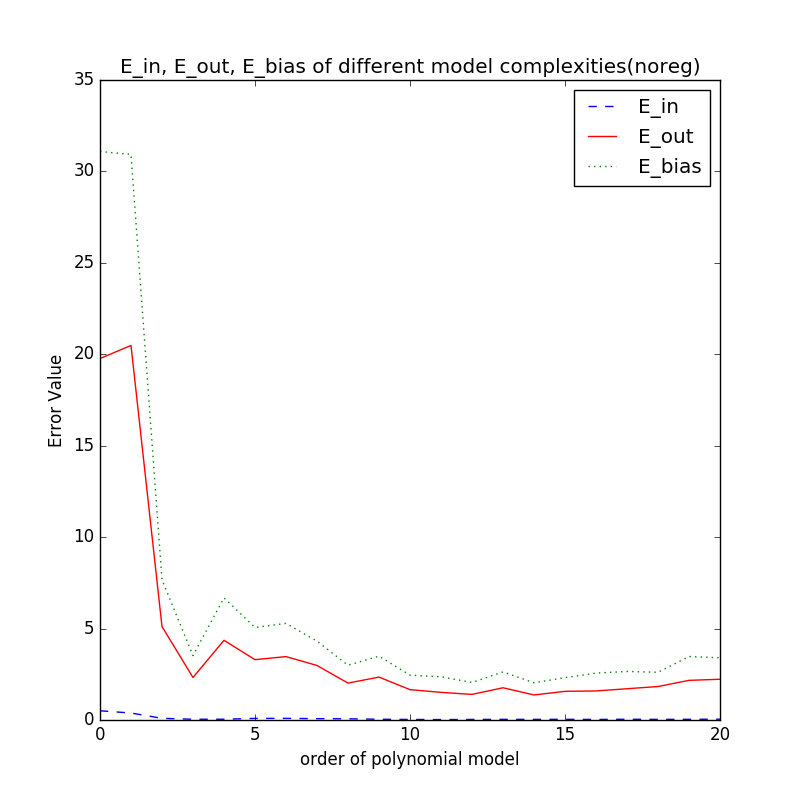
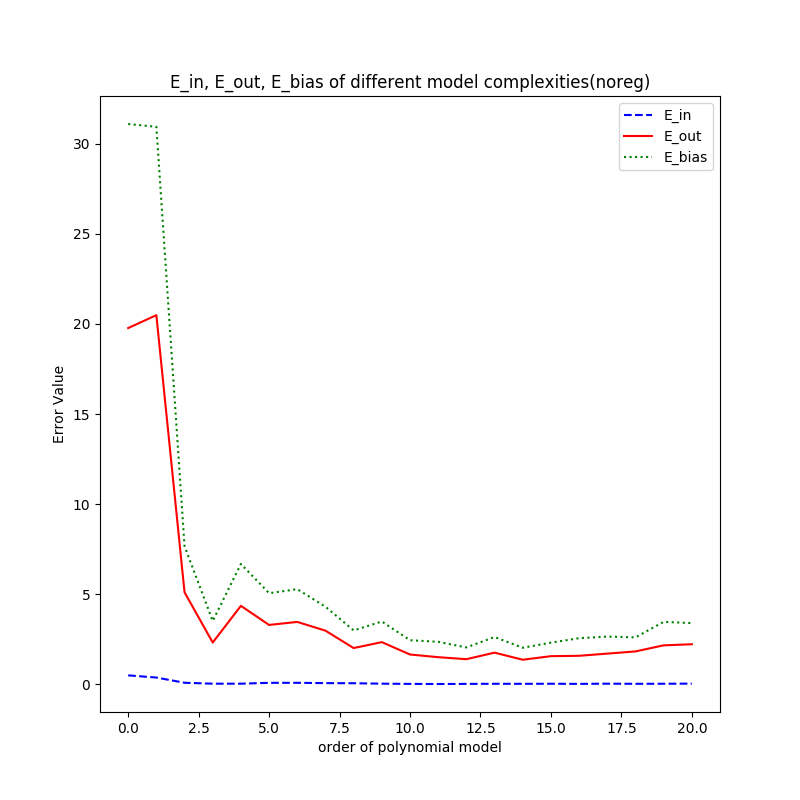
in case forgot to update

diff --git a/Ao_Zhang/assignment1/assignment1_tf.py b/Ao_Zhang/assignment1/assignment1_tf.py
@@ -7,10 +7,11 @@ Student Email:      azhan085@uottawa.ca
 ##### for plotting through X11 #####
 import matplotlib
 matplotlib.use("tkagg")
-import os
 ##### set specific gpu #####
+import os
 os.environ["CUDA_DEVICE_ORDER"]="PCI_BUS_ID"
 os.environ["CUDA_VISIBLE_DEVICES"]="0"
+##### other dependencies #####
 import matplotlib.pyplot as plt
 import tensorflow as tf
 import numpy as np

diff --git a/Ao_Zhang/assignment1/plot_results.py b/Ao_Zhang/assignment1/plot_results.py
@@ -96,6 +96,6 @@ if __name__== "__main__":
     """
     # choose a plot
     current_test = "test_d"
-    regularization = True
+    regularization = False
 
     Plotting(current_test, regularization)
